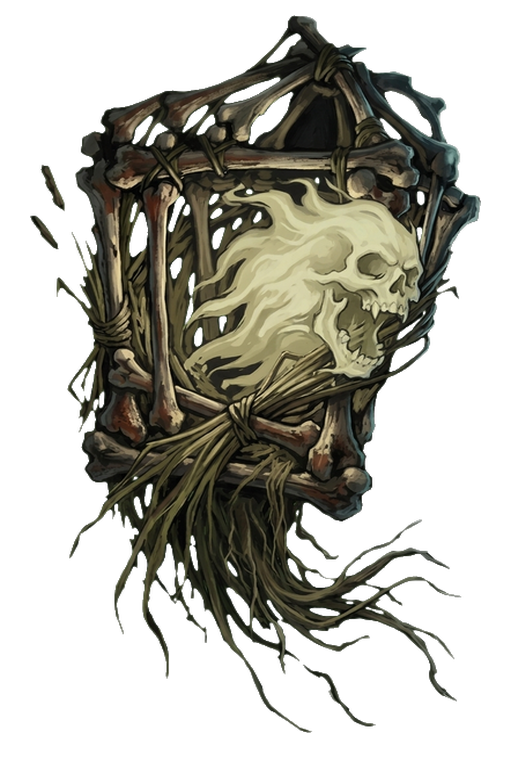
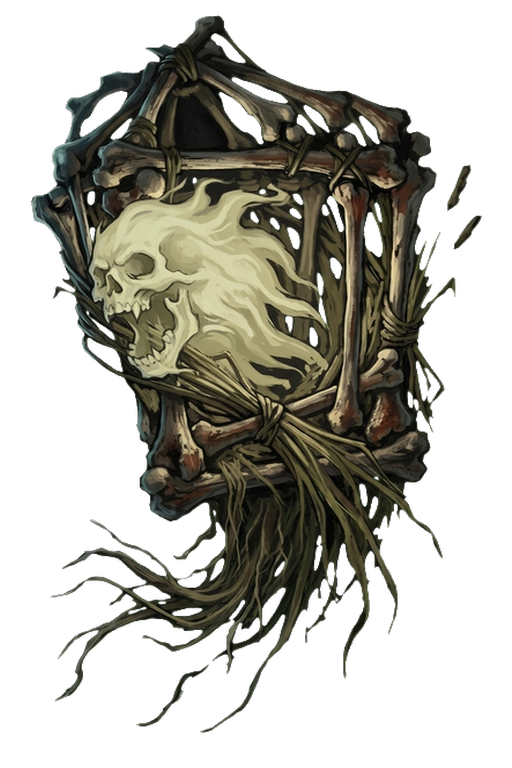
More foes turn to the heroes: the Viy at rest with its joints, the wisp's strike, Verlioka's strike, the Vurdalak's reel, the guard's shield

diff --git a/crates/game/src/battle/rig.rs b/crates/game/src/battle/rig.rs
@@ -86,7 +86,7 @@ const FIGURES: &[(&str, &[Cut])] = &[
     ("enemies/vodyanoy", &[(Part::Head, Vec2::new(0.492, 0.31), 1.0), (Part::Shield, Vec2::new(0.703, 0.365), 0.8), (Part::Arm, Vec2::new(0.332, 0.388), 1.0)]),
     ("enemies/chuchelo", &[(Part::Head, Vec2::new(0.51, 0.2), 0.8), (Part::Shield, Vec2::new(0.68, 0.431), 0.7), (Part::Arm, Vec2::new(0.311, 0.431), 0.7)]),
     ("enemies/verlioka", &[(Part::Head, Vec2::new(0.44, 0.253), 1.0), (Part::Shield, Vec2::new(0.733, 0.359), 0.8), (Part::Arm, Vec2::new(0.308, 0.3), 0.5)]),
-    ("enemies/viy", &[(Part::Head, Vec2::new(0.58, 0.2), 0.4), (Part::Arm, Vec2::new(0.155, 0.422), 1.0)]),
+    ("enemies/viy", &[(Part::Head, Vec2::new(0.42, 0.2), 0.4), (Part::Arm, Vec2::new(0.845, 0.422), 1.0)]),
     ("heroes/znaharka", &[(Part::Shield, Vec2::new(0.40, 0.40), 0.7), (Part::Head, Vec2::new(0.61, 0.20), 0.9), (Part::Arm, Vec2::new(0.73, 0.40), -0.6)]),
     // the "shield" is his chimney, which only rocks; the arm holds the bucket and the pike
     ("heroes/emelya", &[(Part::Shield, Vec2::new(0.30, 0.30), 0.35), (Part::Head, Vec2::new(0.445, 0.30), 0.9), (Part::Arm, Vec2::new(0.62, 0.27), 0.8)]),
